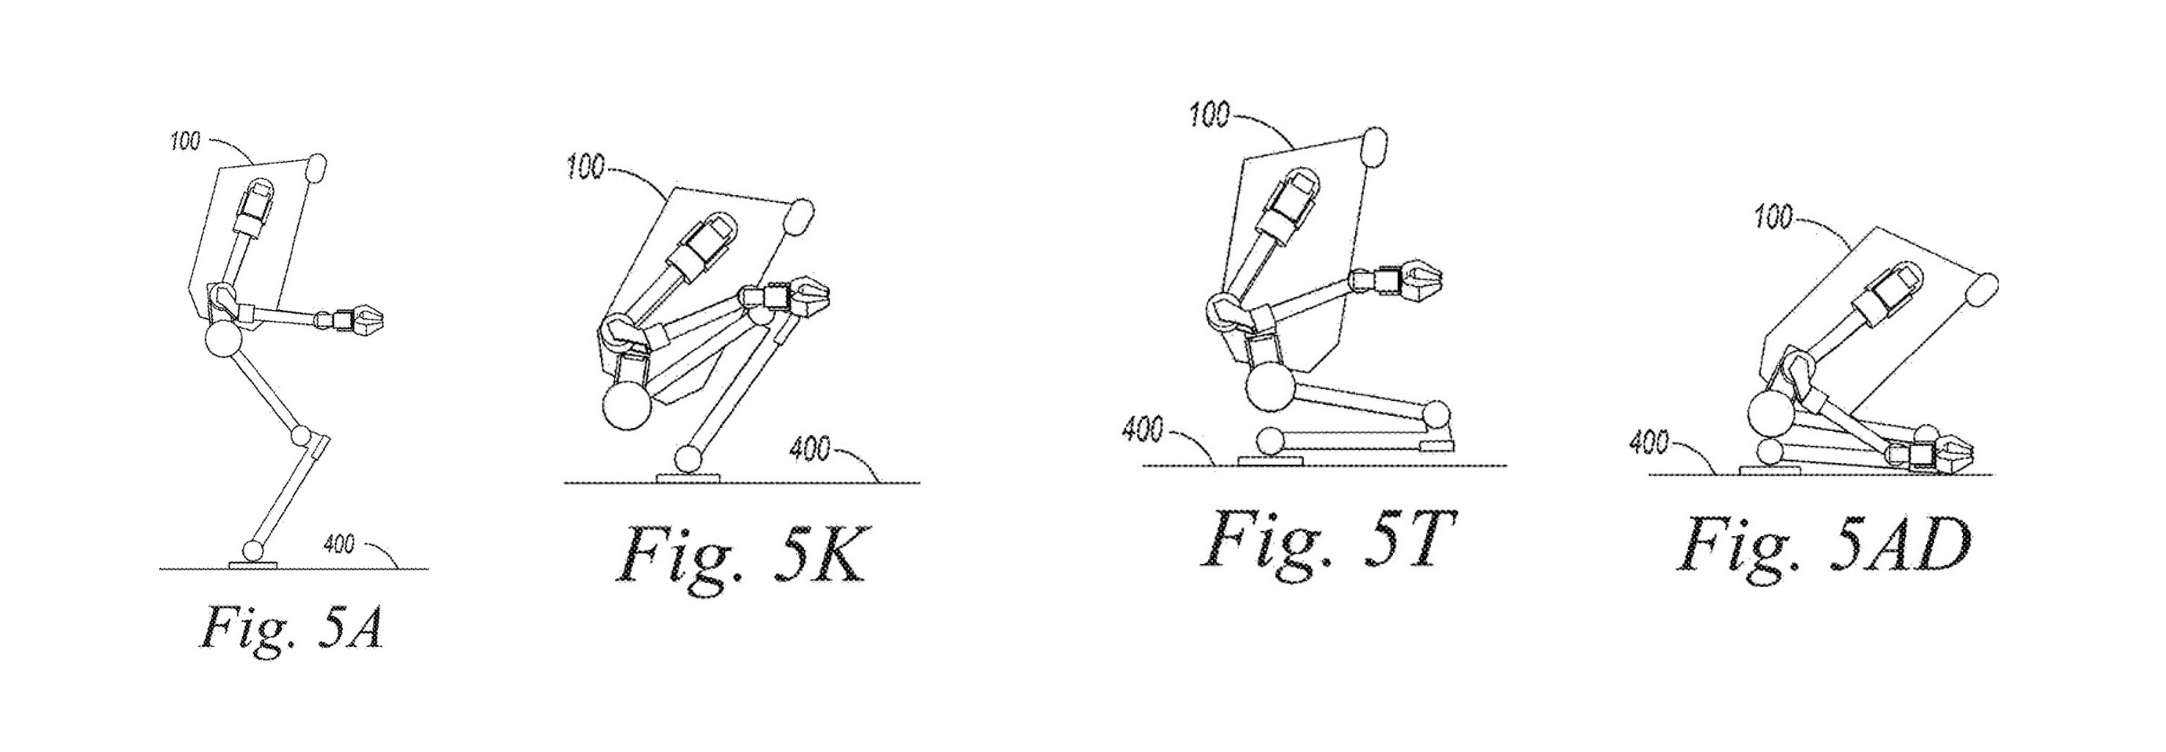
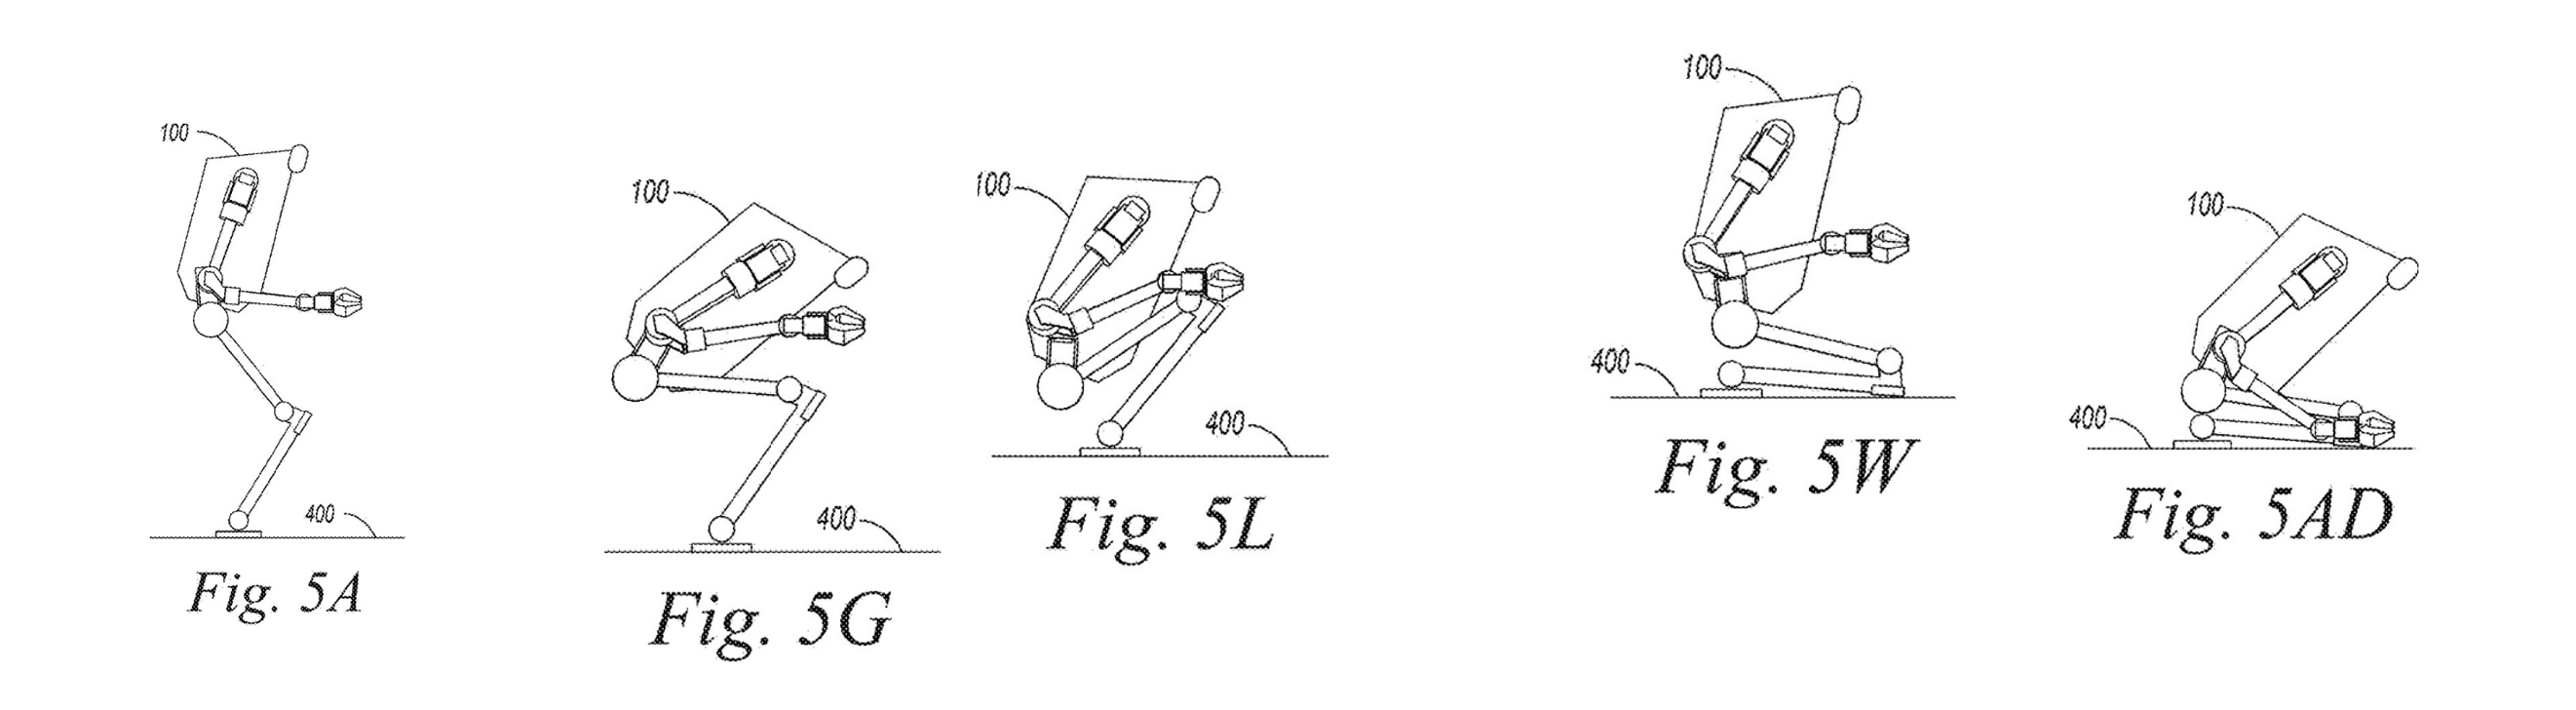
Re-cut FIG. 5 cover to the patent's four phases (5A + 5G/5L/5W/5AD)
The patent ([0046]-[0047]) defines the reconfiguration as four phases,
each a distinct motion: phase 1 (5A-5G) bend hips/knees and tilt the
torso forward; phase 2 (5H-5L) bend deeper while holding the torso so
the load stays centered over the thighs; phase 3 (5M-5W) drop the knees
to the ground; phase 4 (5X-5AD) tilt further and bring the hands to the
ground. So the core movement set is those four phases, not an arbitrary
pick.

The first cover (5A/5K/5T/5AD) happened to land one frame per phase but
by visual spacing, with 5A as a pre-motion "before". Re-cut to 5A
(standing start) plus the end of each phase (5G, 5L, 5W, 5AD) so the
cover shows each phase's completed action. Caption now names the four
phases and keeps the claim-scope guard (one embodiment; claim 1 requires
lowering a center-of-gravity, not this choreography).

Updated figure-selection / figure-rationale / figures-rationale to match.
Figure-use stays {1,3,5,6}, all referenced; all six gates PASS, zero
findings.

Claude-Session: https://claude.ai/code/session_018fbT87b8JrxHLhM7u7kneP

diff --git a/essays/agility-us12560948/handoff/01-design/figure-selection.md b/essays/agility-us12560948/handoff/01-design/figure-selection.md
@@ -8,7 +8,7 @@ needed for a moat read.
 |---|---|---|---|
 | **FIG. 1** | §2 the body that creates the problem (tall, balancing, falls on a power cut) | establishing | — |
 | **FIG. 3** | §3 the claimed escalation logic (decelerate → clearance gate → reconfigure → safe stop, with hold states) | mechanism | `[0033]` |
-| **FIG. 5** | cover strip + §4 the motion of the center-of-gravity-lowering step (curated frames 5A, 5K, 5T, 5AD) | sequence (one embodiment) | `[0047]` |
+| **FIG. 5** | cover strip + §4 the motion of the center-of-gravity-lowering step (frames 5A + phase-ends 5G, 5L, 5W, 5AD, one per phase) | sequence (one embodiment) | `[0046]` |
 | **FIG. 6** | §4 the end state: compact kneel, center-of-gravity dropped, predictable collapse | payoff | `[0047]` |
 
 Selected figure set: **1, 3, 5, 6**. All four are referenced in the draft; no other figure
@@ -16,5 +16,8 @@ numbers are referenced, keeping the figure-use gate clean. FIG. 5 token note: le
 (`FIG. 5A`) do not parse in the figure-use/figref regex (the trailing letter kills the word
 boundary), so the draft carries at least one bare `FIG. 5` token (cover alt text + the §4 inline
 reference) to register the figure as used; the human-readable `FIG. 5A-5AD` caption is additive.
-The cover strip is a curated 4-frame crop (start → fold → deep fold → kneel) composed from the
-patent's own panels; the full sequence composites (fig-05AF / GO / PX / YAD) ship in figures/.
+The cover strip is a 5-frame crop composed from the patent's own panels: 5A (standing start) plus
+the end of each of the patent's four reconfiguration phases (`[0046]`-`[0047]`). The phase-ends
+are 5G (phase 1: bend and tilt), 5L (phase 2: deeper, balanced over the thighs), 5W (phase 3:
+knees to the ground), and 5AD (phase 4: hands to the ground). The full sequence composites
+(fig-05AF / GO / PX / YAD) ship in figures/.

diff --git a/essays/agility-us12560948/handoff/01-design/figure-rationale.md b/essays/agility-us12560948/handoff/01-design/figure-rationale.md
@@ -17,9 +17,9 @@ Per-figure purpose and intended reader effect.
 - **Caption anchor**: `[0033]` (why reconfiguration can be the wrong call when there is no time).
 
 ## FIG. 5 — the fold-down sequence (cover + motion)
-- **Purpose**: show the reconfiguration as motion: a curated start-to-kneel strip (frames 5A,
-  5K, 5T, 5AD cropped from the patent's own panels) of the robot lowering its center-of-gravity
-  in stages.
+- **Purpose**: show the reconfiguration as motion: a strip of 5A (standing start) plus the end of
+  each of the patent's four phases (5G, 5L, 5W, 5AD, per `[0046]`-`[0047]`), cropped from the
+  patent's own panels, of the robot lowering its center-of-gravity in stages.
 - **Intended effect**: the cover image and the most literal picture of the thesis (how the robot
   comes to rest). Carries visual weight while FIG. 3 stays the claim-logic centerpiece.
 - **Claim-scope caption guard**: framed as one embodiment of the locked step; claim 1 requires

diff --git a/essays/agility-us12560948/essay-final.md b/essays/agility-us12560948/essay-final.md
@@ -3,7 +3,7 @@
 
 ![FIG. 5 reconfiguration sequence](figures/fig-05-sequence.png)
 
-*FIG. 5A-5AD (frames 5A, 5K, 5T, 5AD): the robot lowers its center-of-gravity in stages, from a near-standing crouch to a compact kneel. This is one embodiment of the locked step. Claim 1 requires lowering a center-of-gravity, not this exact choreography.*
+*FIG. 5A-5AD, the reconfiguration in the patent's four phases [0046]: 5A (standing start), then 5G, 5L, 5W, 5AD as the robot bends and tilts forward, balances deeper over its thighs, drops its knees to the ground, and brings its hands down to a compact kneel. One embodiment of the locked step. Claim 1 requires lowering a center-of-gravity, not this exact choreography.*
 
 Agility Robotics is about to be a public company, and the story it sells to investors is that a two-legged robot can work in the same aisle as a person and be trusted there. The merger that takes it public values it at about $2.5 billion. That premise, not walking speed or payload, is what the valuation rests on. So the question a diligence file should ask is narrow: when a humanoid has to stop because a person got too close, what does Agility own that a competitor does not? US 12,560,948 B2, granted in February 2026, is the cleanest answer the company has put on the public record. It does not patent walking. It patents how the robot comes to rest.
 

diff --git a/essays/agility-us12560948/handoff/02-compose/essay-draft.md b/essays/agility-us12560948/handoff/02-compose/essay-draft.md
@@ -12,7 +12,7 @@ audience: tech-investor (technical-moat diligence)
 
 ![FIG. 5 reconfiguration sequence](figures/fig-05-sequence.png)
 
-*FIG. 5A-5AD (frames 5A, 5K, 5T, 5AD): the robot lowers its center-of-gravity in stages, from a near-standing crouch to a compact kneel. This is one embodiment of the locked step. Claim 1 requires lowering a center-of-gravity, not this exact choreography.*
+*FIG. 5A-5AD, the reconfiguration in the patent's four phases [0046]: 5A (standing start), then 5G, 5L, 5W, 5AD as the robot bends and tilts forward, balances deeper over its thighs, drops its knees to the ground, and brings its hands down to a compact kneel. One embodiment of the locked step. Claim 1 requires lowering a center-of-gravity, not this exact choreography.*
 
 Agility Robotics is about to be a public company, and the story it sells to investors is that a two-legged robot can work in the same aisle as a person and be trusted there. The merger that takes it public values it at about $2.5 billion.[^f-spac] That premise, not walking speed or payload, is what the valuation rests on. So the question a diligence file should ask is narrow: when a humanoid has to stop because a person got too close, what does Agility own that a competitor does not? US 12,560,948 B2, granted in February 2026, is the cleanest answer the company has put on the public record. It does not patent walking. It patents how the robot comes to rest.
 

diff --git a/essays/agility-us12560948/handoff/02-compose/figures-rationale.md b/essays/agility-us12560948/handoff/02-compose/figures-rationale.md
@@ -4,7 +4,7 @@ Composer's actual placement decisions (vs Phase-1 figure-rationale intent).
 
 | Figure | Placement | Render mode | Caption (as drafted) |
 |---|---|---|---|
-| FIG. 5 | Cover, directly under the title | image-plus-caption (header) | *FIG. 5A-5AD (frames 5A, 5K, 5T, 5AD): the robot lowers its center-of-gravity in stages ... one embodiment of the locked step.* |
+| FIG. 5 | Cover, directly under the title | image-plus-caption (header) | *FIG. 5A-5AD, the reconfiguration in the patent's four phases [0046]: 5A (start), then 5G, 5L, 5W, 5AD ... one embodiment of the locked step.* |
 | FIG. 1 | §"What The Body Forces", inline reference in first sentence | reference-only (no image block in draft) | establishing the body; referenced as "(Fig. 1)" |
 | FIG. 3 | §"What Claim 1 Locks", after the interpretation paragraph | caption-only-italic | *FIG. 3, [0033]: the escalation the claim locks, including the clearance check that gates the reconfiguration.* |
 | FIG. 6 | §"Locked, Open, And Pinned", end of section | caption-only-italic | *FIG. 6, [0047]: the kneel is one open embodiment of the locked instruction to lower the center-of-gravity, a compact pose that collapses predictably on a fault.* |

diff --git a/essays/agility-us12560948/handoff/02-compose/publication.md b/essays/agility-us12560948/handoff/02-compose/publication.md
@@ -3,7 +3,7 @@
 
 ![FIG. 5 reconfiguration sequence](figures/fig-05-sequence.png)
 
-*FIG. 5A-5AD (frames 5A, 5K, 5T, 5AD): the robot lowers its center-of-gravity in stages, from a near-standing crouch to a compact kneel. This is one embodiment of the locked step. Claim 1 requires lowering a center-of-gravity, not this exact choreography.*
+*FIG. 5A-5AD, the reconfiguration in the patent's four phases [0046]: 5A (standing start), then 5G, 5L, 5W, 5AD as the robot bends and tilts forward, balances deeper over its thighs, drops its knees to the ground, and brings its hands down to a compact kneel. One embodiment of the locked step. Claim 1 requires lowering a center-of-gravity, not this exact choreography.*
 
 Agility Robotics is about to be a public company, and the story it sells to investors is that a two-legged robot can work in the same aisle as a person and be trusted there. The merger that takes it public values it at about $2.5 billion. That premise, not walking speed or payload, is what the valuation rests on. So the question a diligence file should ask is narrow: when a humanoid has to stop because a person got too close, what does Agility own that a competitor does not? US 12,560,948 B2, granted in February 2026, is the cleanest answer the company has put on the public record. It does not patent walking. It patents how the robot comes to rest.
 

diff --git a/essays/agility-us12560948/handoff/03-edit/essay-final.md b/essays/agility-us12560948/handoff/03-edit/essay-final.md
@@ -3,7 +3,7 @@
 
 ![FIG. 5 reconfiguration sequence](figures/fig-05-sequence.png)
 
-*FIG. 5A-5AD (frames 5A, 5K, 5T, 5AD): the robot lowers its center-of-gravity in stages, from a near-standing crouch to a compact kneel. This is one embodiment of the locked step. Claim 1 requires lowering a center-of-gravity, not this exact choreography.*
+*FIG. 5A-5AD, the reconfiguration in the patent's four phases [0046]: 5A (standing start), then 5G, 5L, 5W, 5AD as the robot bends and tilts forward, balances deeper over its thighs, drops its knees to the ground, and brings its hands down to a compact kneel. One embodiment of the locked step. Claim 1 requires lowering a center-of-gravity, not this exact choreography.*
 
 Agility Robotics is about to be a public company, and the story it sells to investors is that a two-legged robot can work in the same aisle as a person and be trusted there. The merger that takes it public values it at about $2.5 billion. That premise, not walking speed or payload, is what the valuation rests on. So the question a diligence file should ask is narrow: when a humanoid has to stop because a person got too close, what does Agility own that a competitor does not? US 12,560,948 B2, granted in February 2026, is the cleanest answer the company has put on the public record. It does not patent walking. It patents how the robot comes to rest.
 